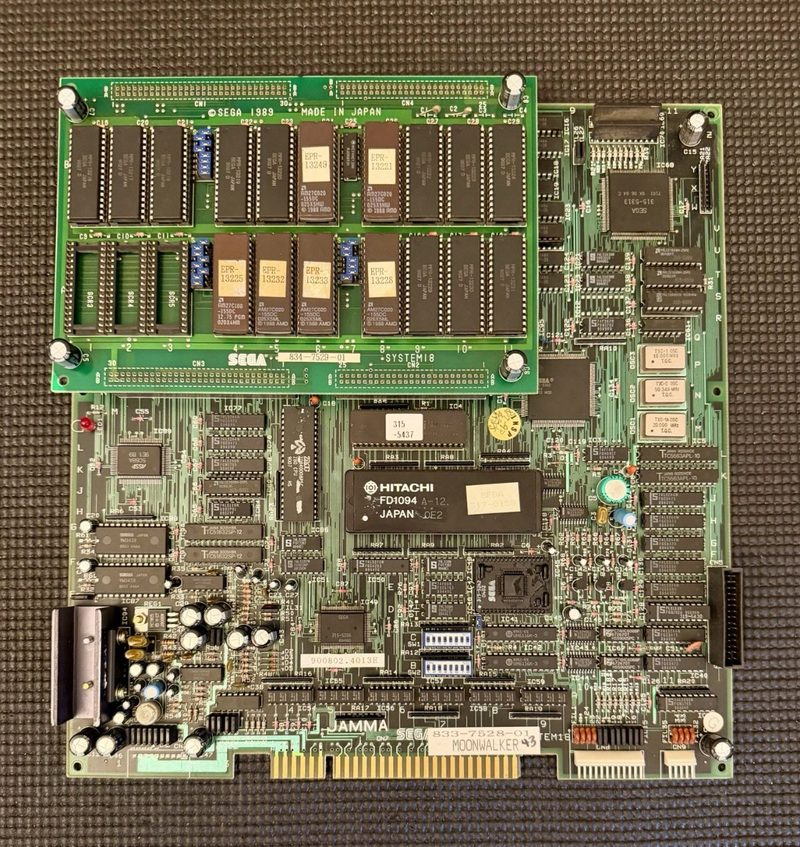
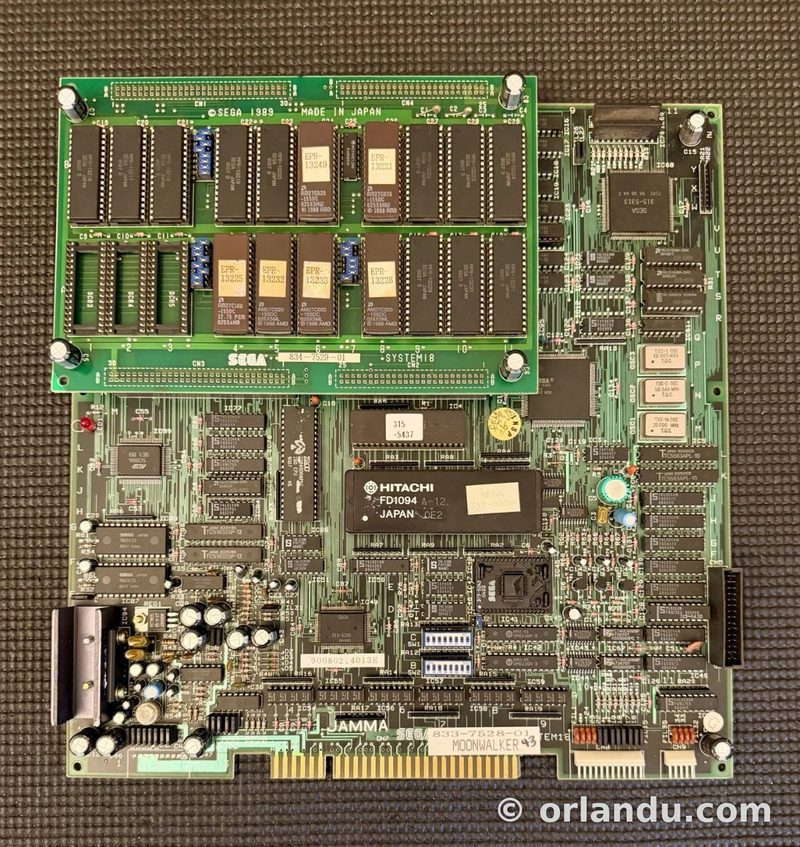
For Sale: draw the copyright mark on the Moonwalker photo

Changed region(s): [[0.625, 0.9209, 0.9688, 0.9823]]

diff --git a/forsale.html b/forsale.html
@@ -26,7 +26,7 @@
 <link rel="canonical" href="https://www.orlandu.com/forsale.html">
 <link rel="stylesheet" href="assets/style.css">
 <link rel="preload" as="image" href="assets/logo-wordmark-nav.webp">
-<link rel="preload" as="image" href="media/thumbs/sale-moonwalker-pcb.jpg" fetchpriority="high">
+<link rel="preload" as="image" href="media/thumbs/sale-moonwalker-pcb.jpg?v=2" fetchpriority="high">
 <style>main.hub{--acc:#ffb0e0}</style>
 <script src="assets/site.js" defer></script>
 <script type="application/ld+json">
@@ -210,7 +210,7 @@
     <h2 class="sec">Currently listed</h2>
     <div class="grid c2">
       <div class="card">
-        <figure style="margin:-1.1rem -1.2rem 1rem;border-bottom:1px solid var(--line)"><img src="media/thumbs/sale-moonwalker-pcb.jpg" data-full="media/2026/sale-moonwalker-pcb.jpg" alt="Sega System 18 Moonwalker board set, the ROM board stacked on the main board" style="border-radius:9px 9px 0 0" width="800" height="847" fetchpriority="high" decoding="async"></figure>
+        <figure style="margin:-1.1rem -1.2rem 1rem;border-bottom:1px solid var(--line)"><img src="media/thumbs/sale-moonwalker-pcb.jpg?v=2" data-full="media/2026/sale-moonwalker-pcb.jpg?v=2" alt="Sega System 18 Moonwalker board set, the ROM board stacked on the main board" style="border-radius:9px 9px 0 0" width="800" height="847" fetchpriority="high" decoding="async"></figure>
         <span class="badge sale">On eBay · $899.99</span>
         <h3>Michael Jackson’s Moonwalker</h3>
         <p>The original Sega System 18 board set, still on its factory ROMs with the 317-0158 key sticker intact on the FD1094 — no piggybacked EPROMs, no cut traces, no socket adapters. The battery is live, it boots and plays, and an unused Arcade Resurrection FD1094 kit goes in the box with it for the day that cell finally gives out.</p>
